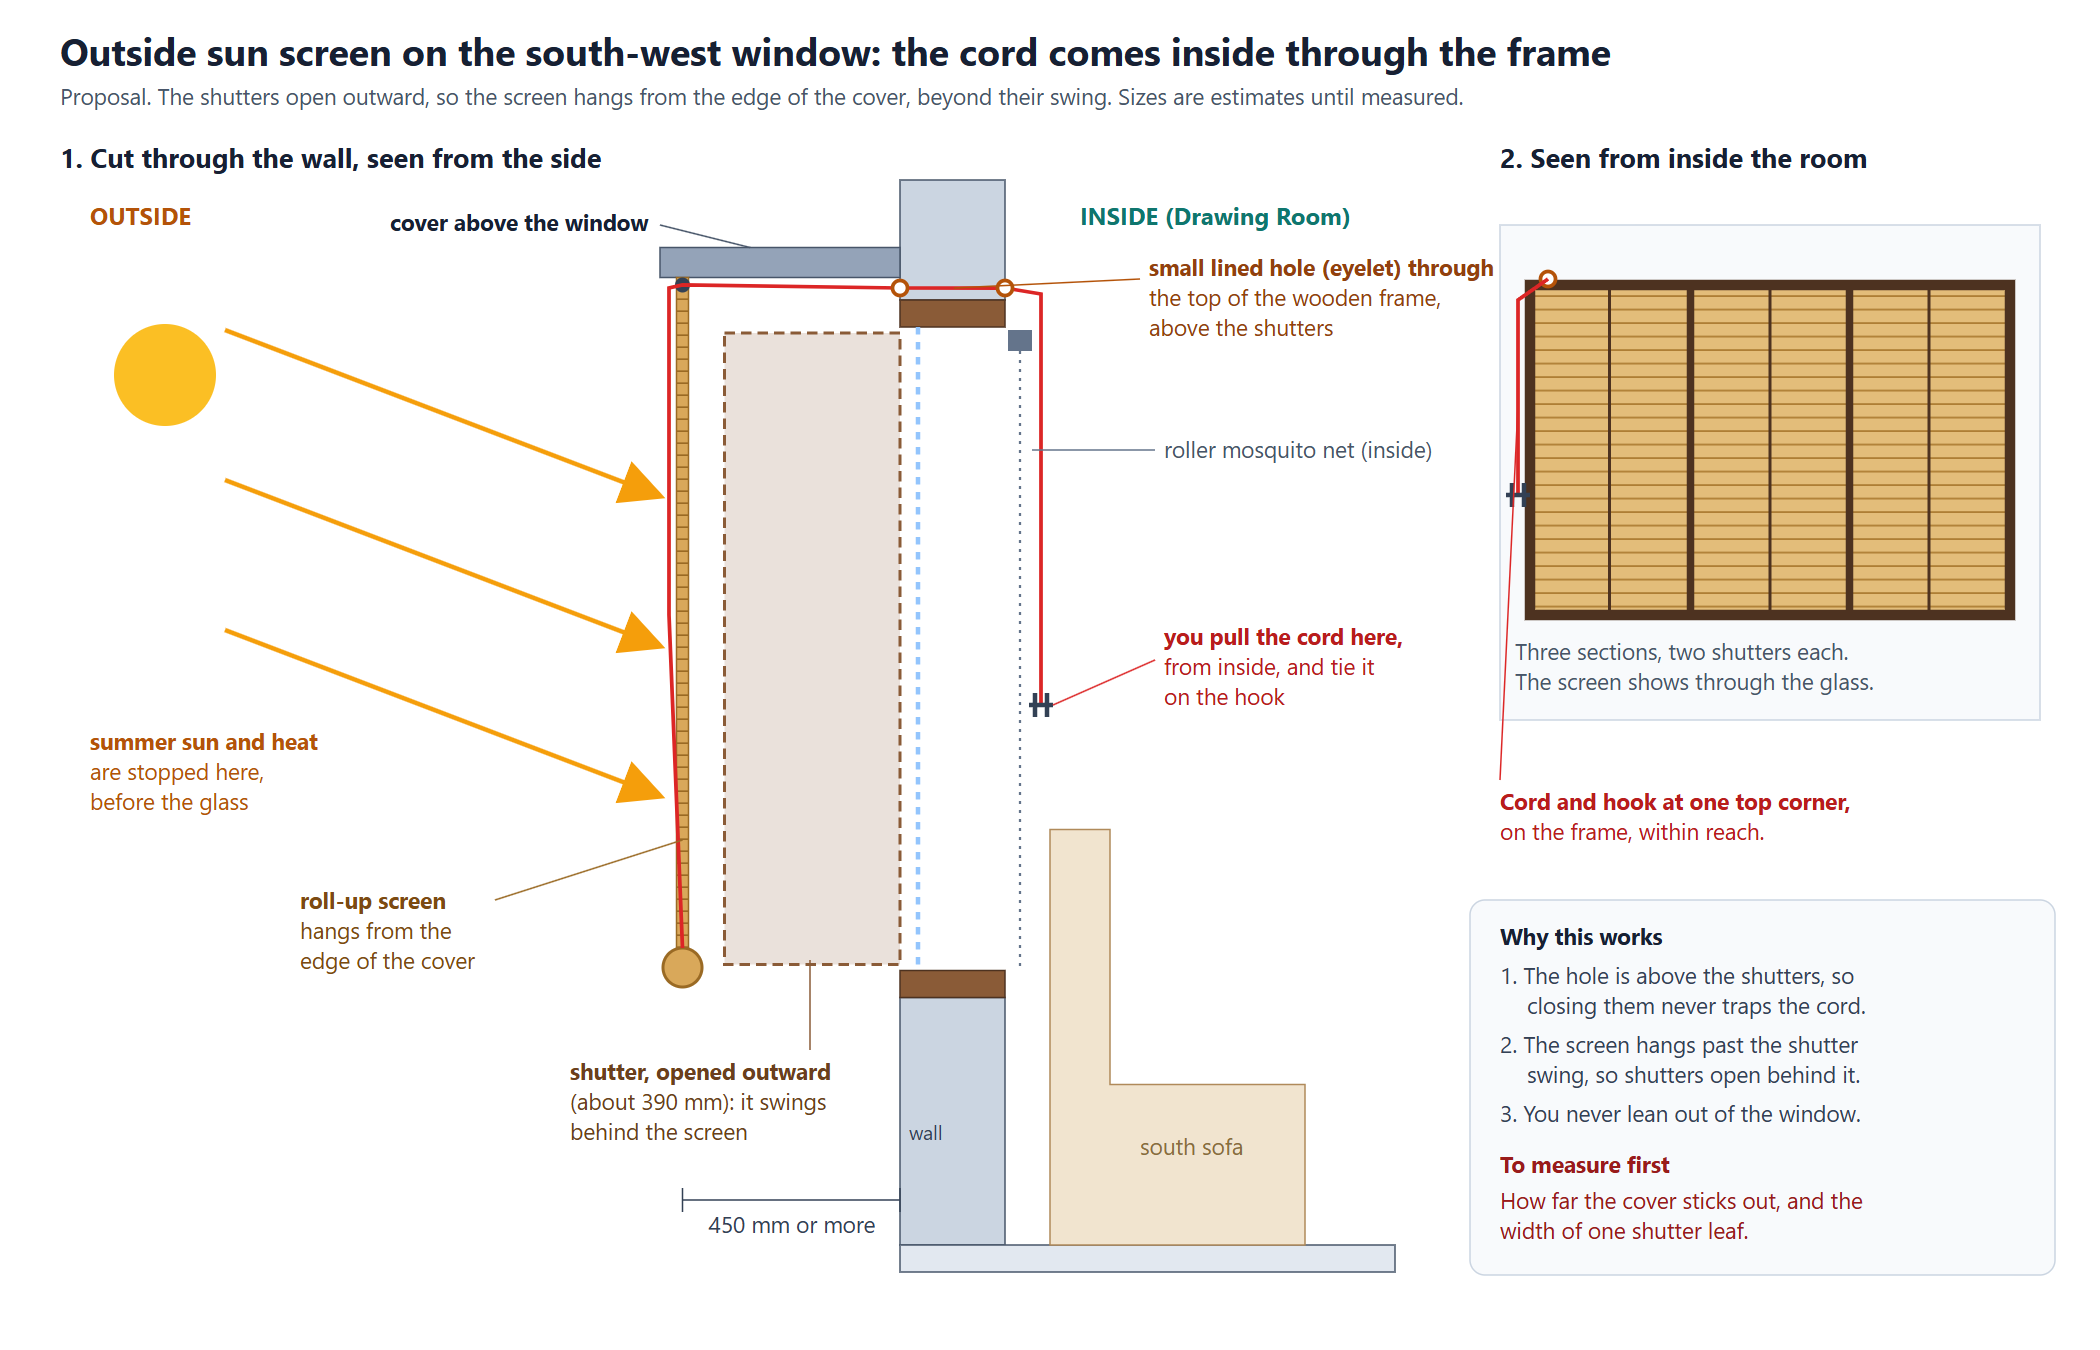
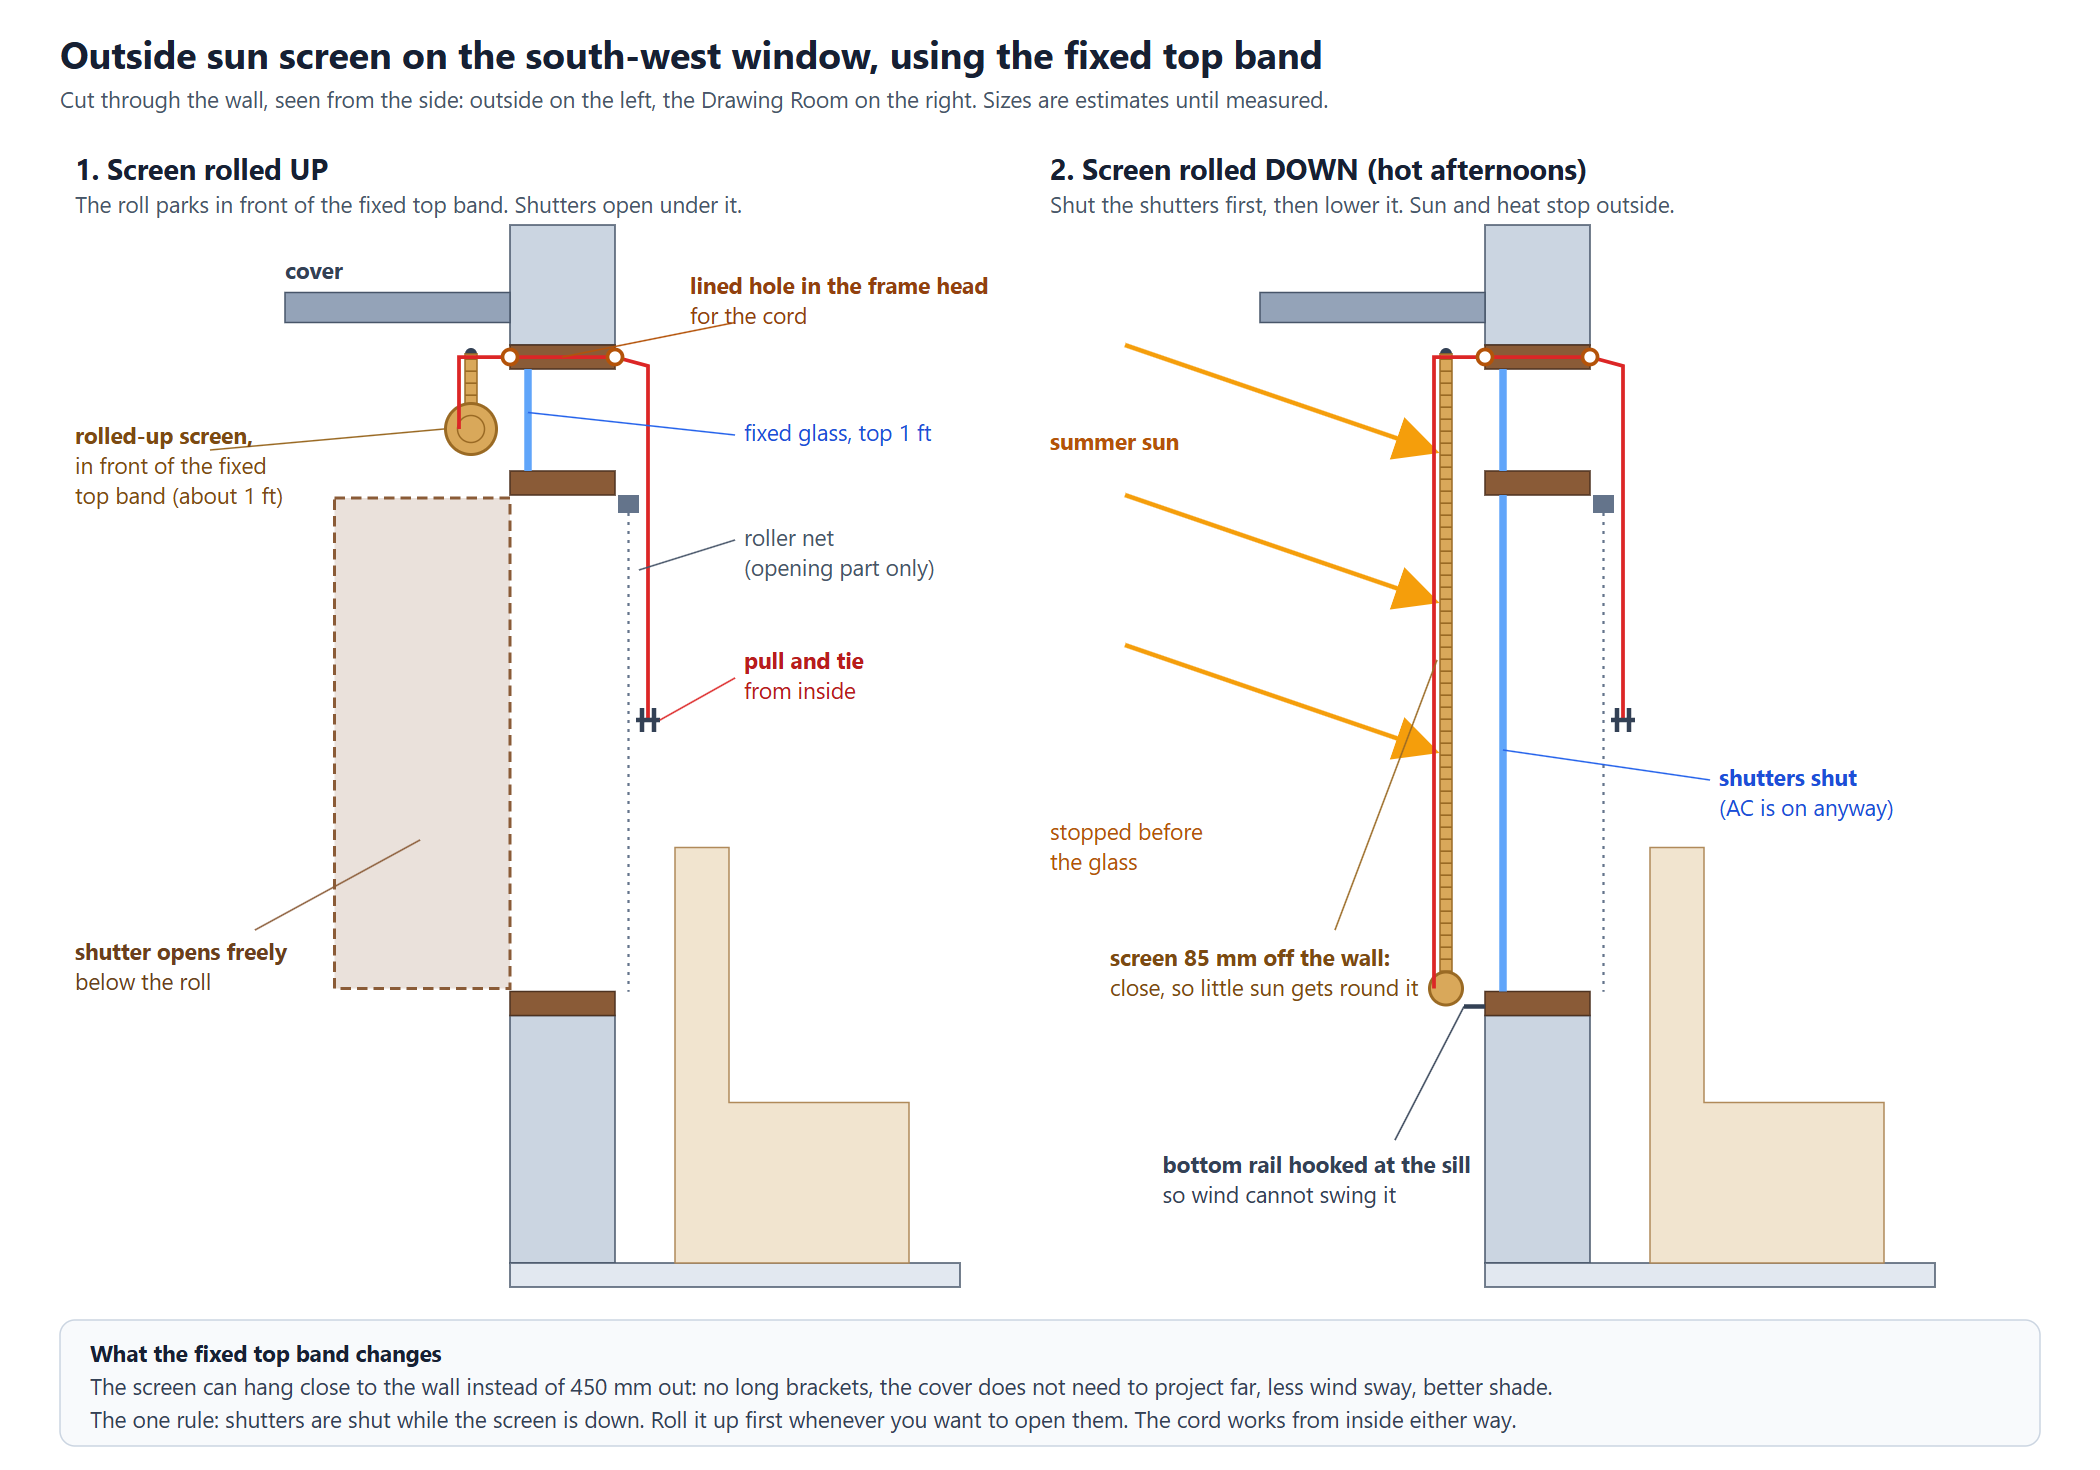
Sun screen redesigned around the window's fixed top band: hung close to the wall, parks above the shutters

diff --git a/work-plan/OPEN_ITEMS.md b/work-plan/OPEN_ITEMS.md
@@ -28,7 +28,7 @@ page). Write the answer next to the item or just tell the assistant; the task an
 | B3 | Is the society permission to close the shaft in writing? Does the society also need to approve the new main door and the shaft cover? | Society permission |
 | B4 | Is the present shaft cover at the entry ventilated (holes or louvres)? | Shaft cover |
 | B5 | ANSWERED 2026-10-04: the south window frame is wood, in three sections, shutters open outward, centre section fixed (to be replaced by two shutters). Nothing outside blocks the centre shutters (owner). | Centre window shutters |
-| B6 | Drawing Room south window: there is a cover above it outside (owner). How far does it stick out from the wall (450 mm or more is needed), and how wide is one shutter leaf? | Outside sun screen |
+| B6 | Drawing Room south window: exact height of the fixed top band (owner: about 1 ft), and whether it runs across all three sections | Outside sun screen; centre shutters; mosquito net |
 
 ## C. Decisions
 
@@ -53,7 +53,7 @@ page). Write the answer next to the item or just tell the assistant; the task an
 | C17 | Track lights: type (230 V or slim 48 V magnetic), colour, number of heads | two surface tracks, warm white, dimmable | Layered lighting |
 | C18 | Is there a ceiling fan in the Drawing Room, and where? | not known | Layered lighting |
 | C19 | South window: which wood shade; glass type for the new shutters; roller net cassette at the top or the side (roller net per section is DECIDED) | match the TV panel wall; 5 mm clear glass | Window wooden shade; mosquito net; centre shutters |
-| C20 | Outside sun screen on the south window: plain bamboo or an outdoor PVC/HDPE screen; worked by a cord brought inside, a crank, or a motor | outdoor screen with a cord through an eyelet in the frame | Outside sun screen |
+| C20 | Outside sun screen on the south window: plain bamboo or an outdoor PVC/HDPE screen | outdoor screen lasts longer; bamboo looks warmer. Hung close to the wall, cord brought inside | Outside sun screen |
 
 ## D. People to arrange
 
